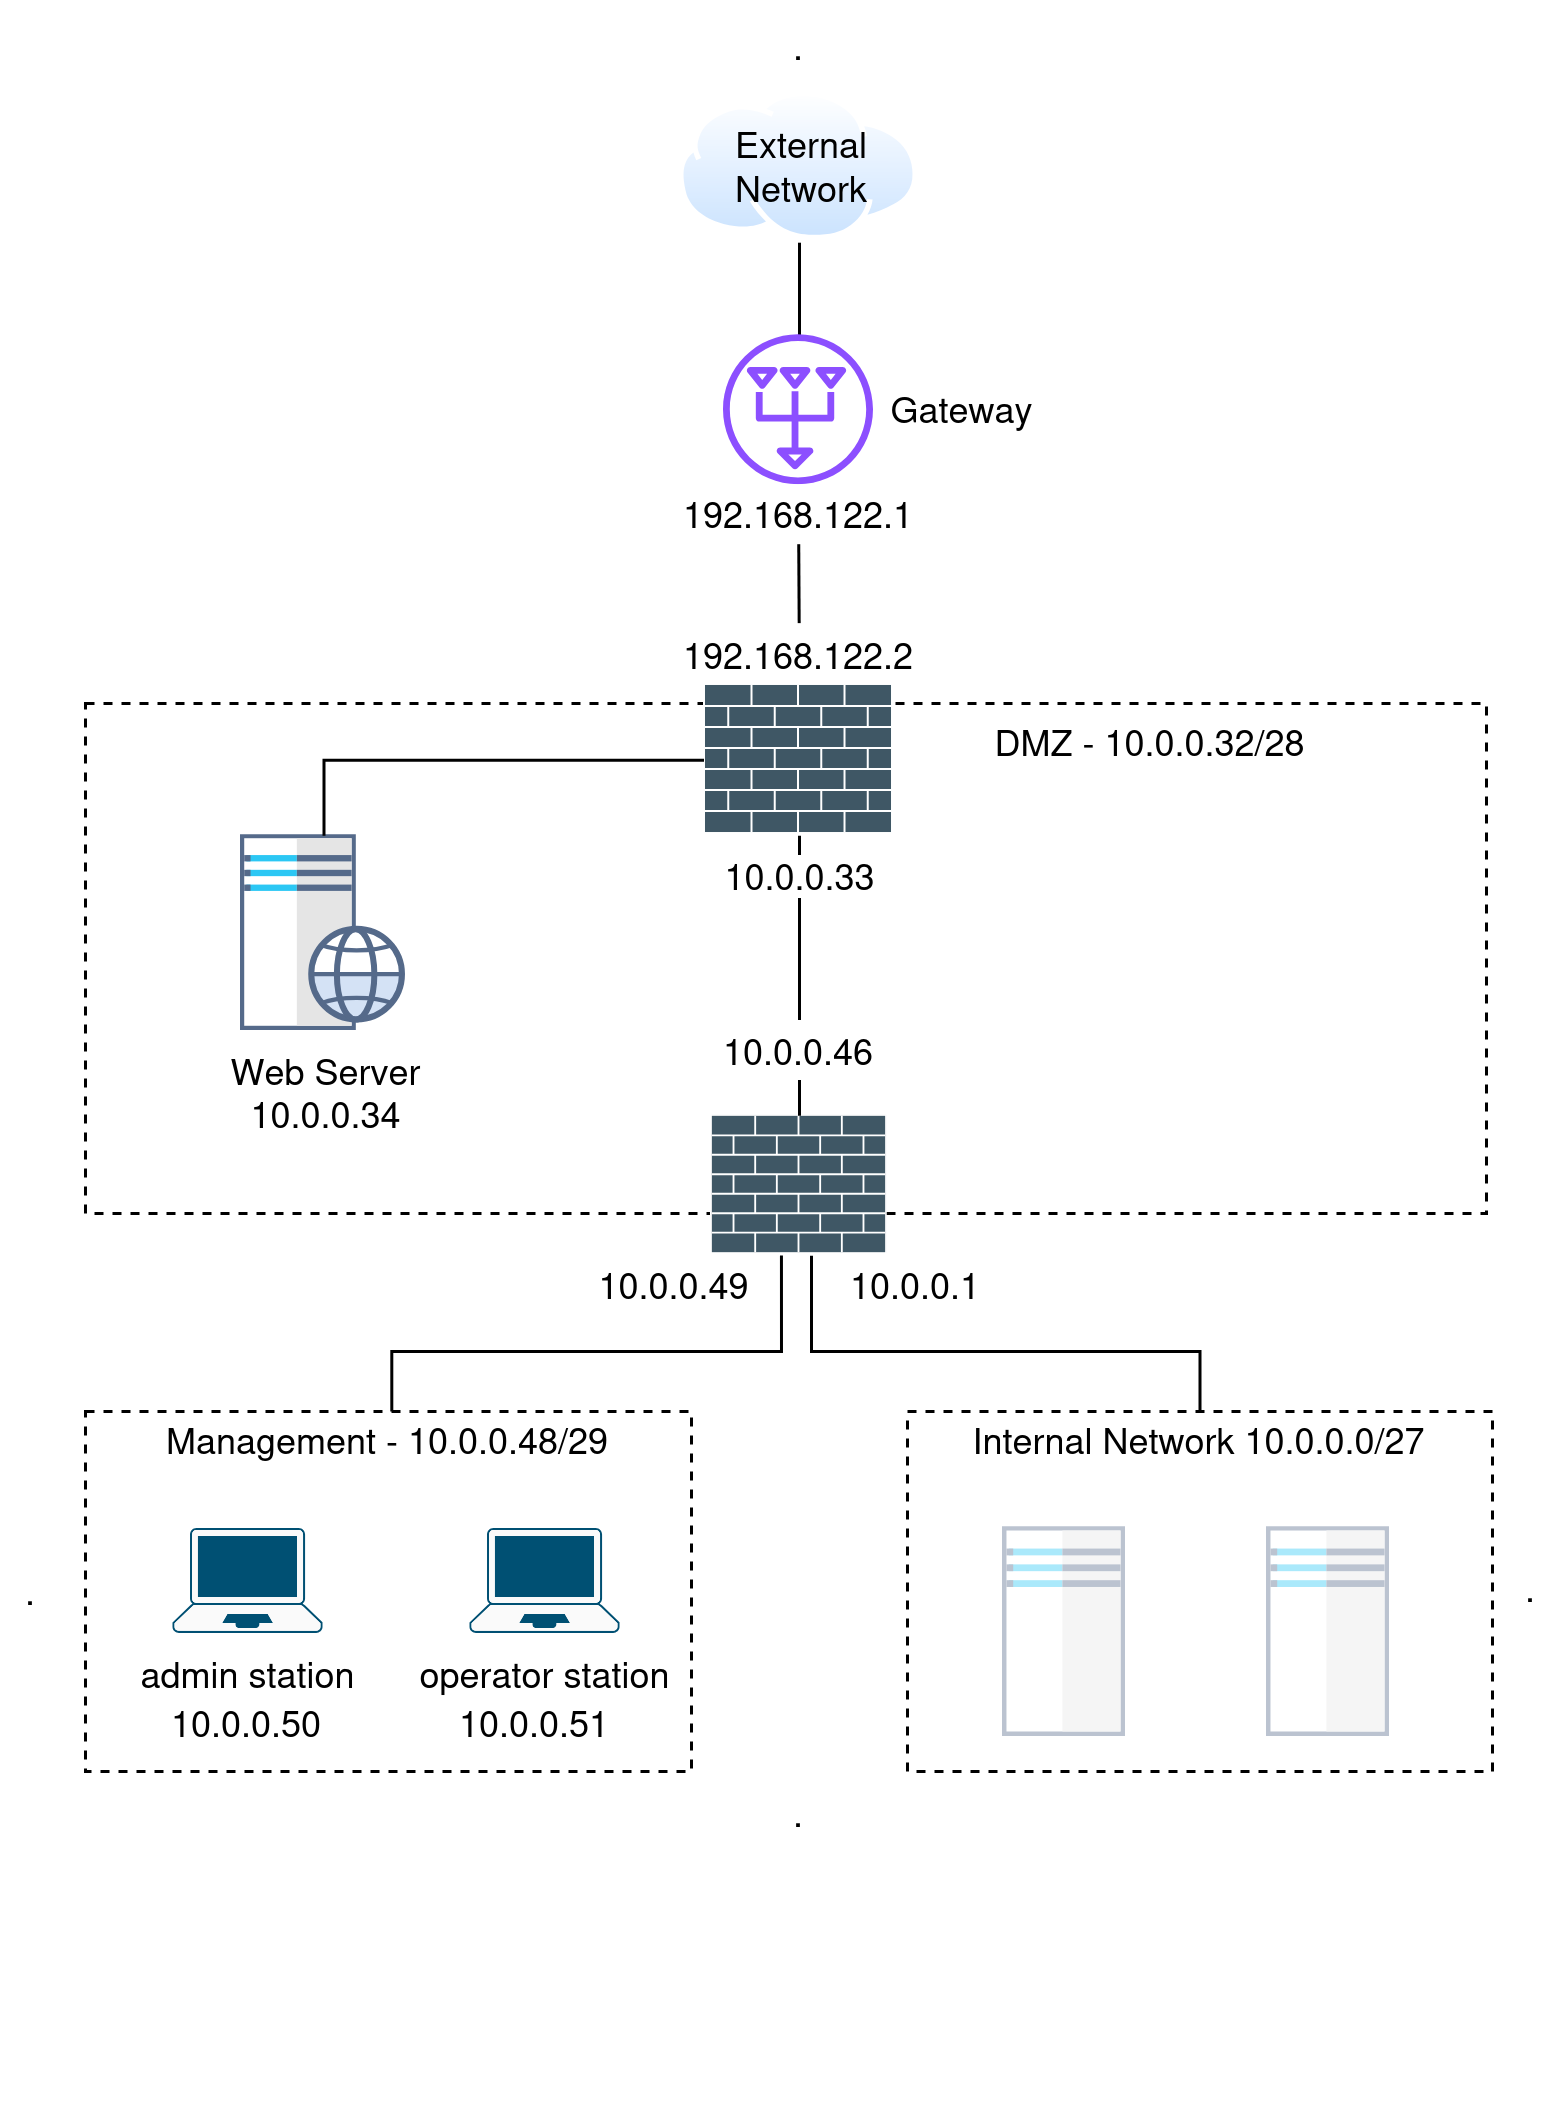
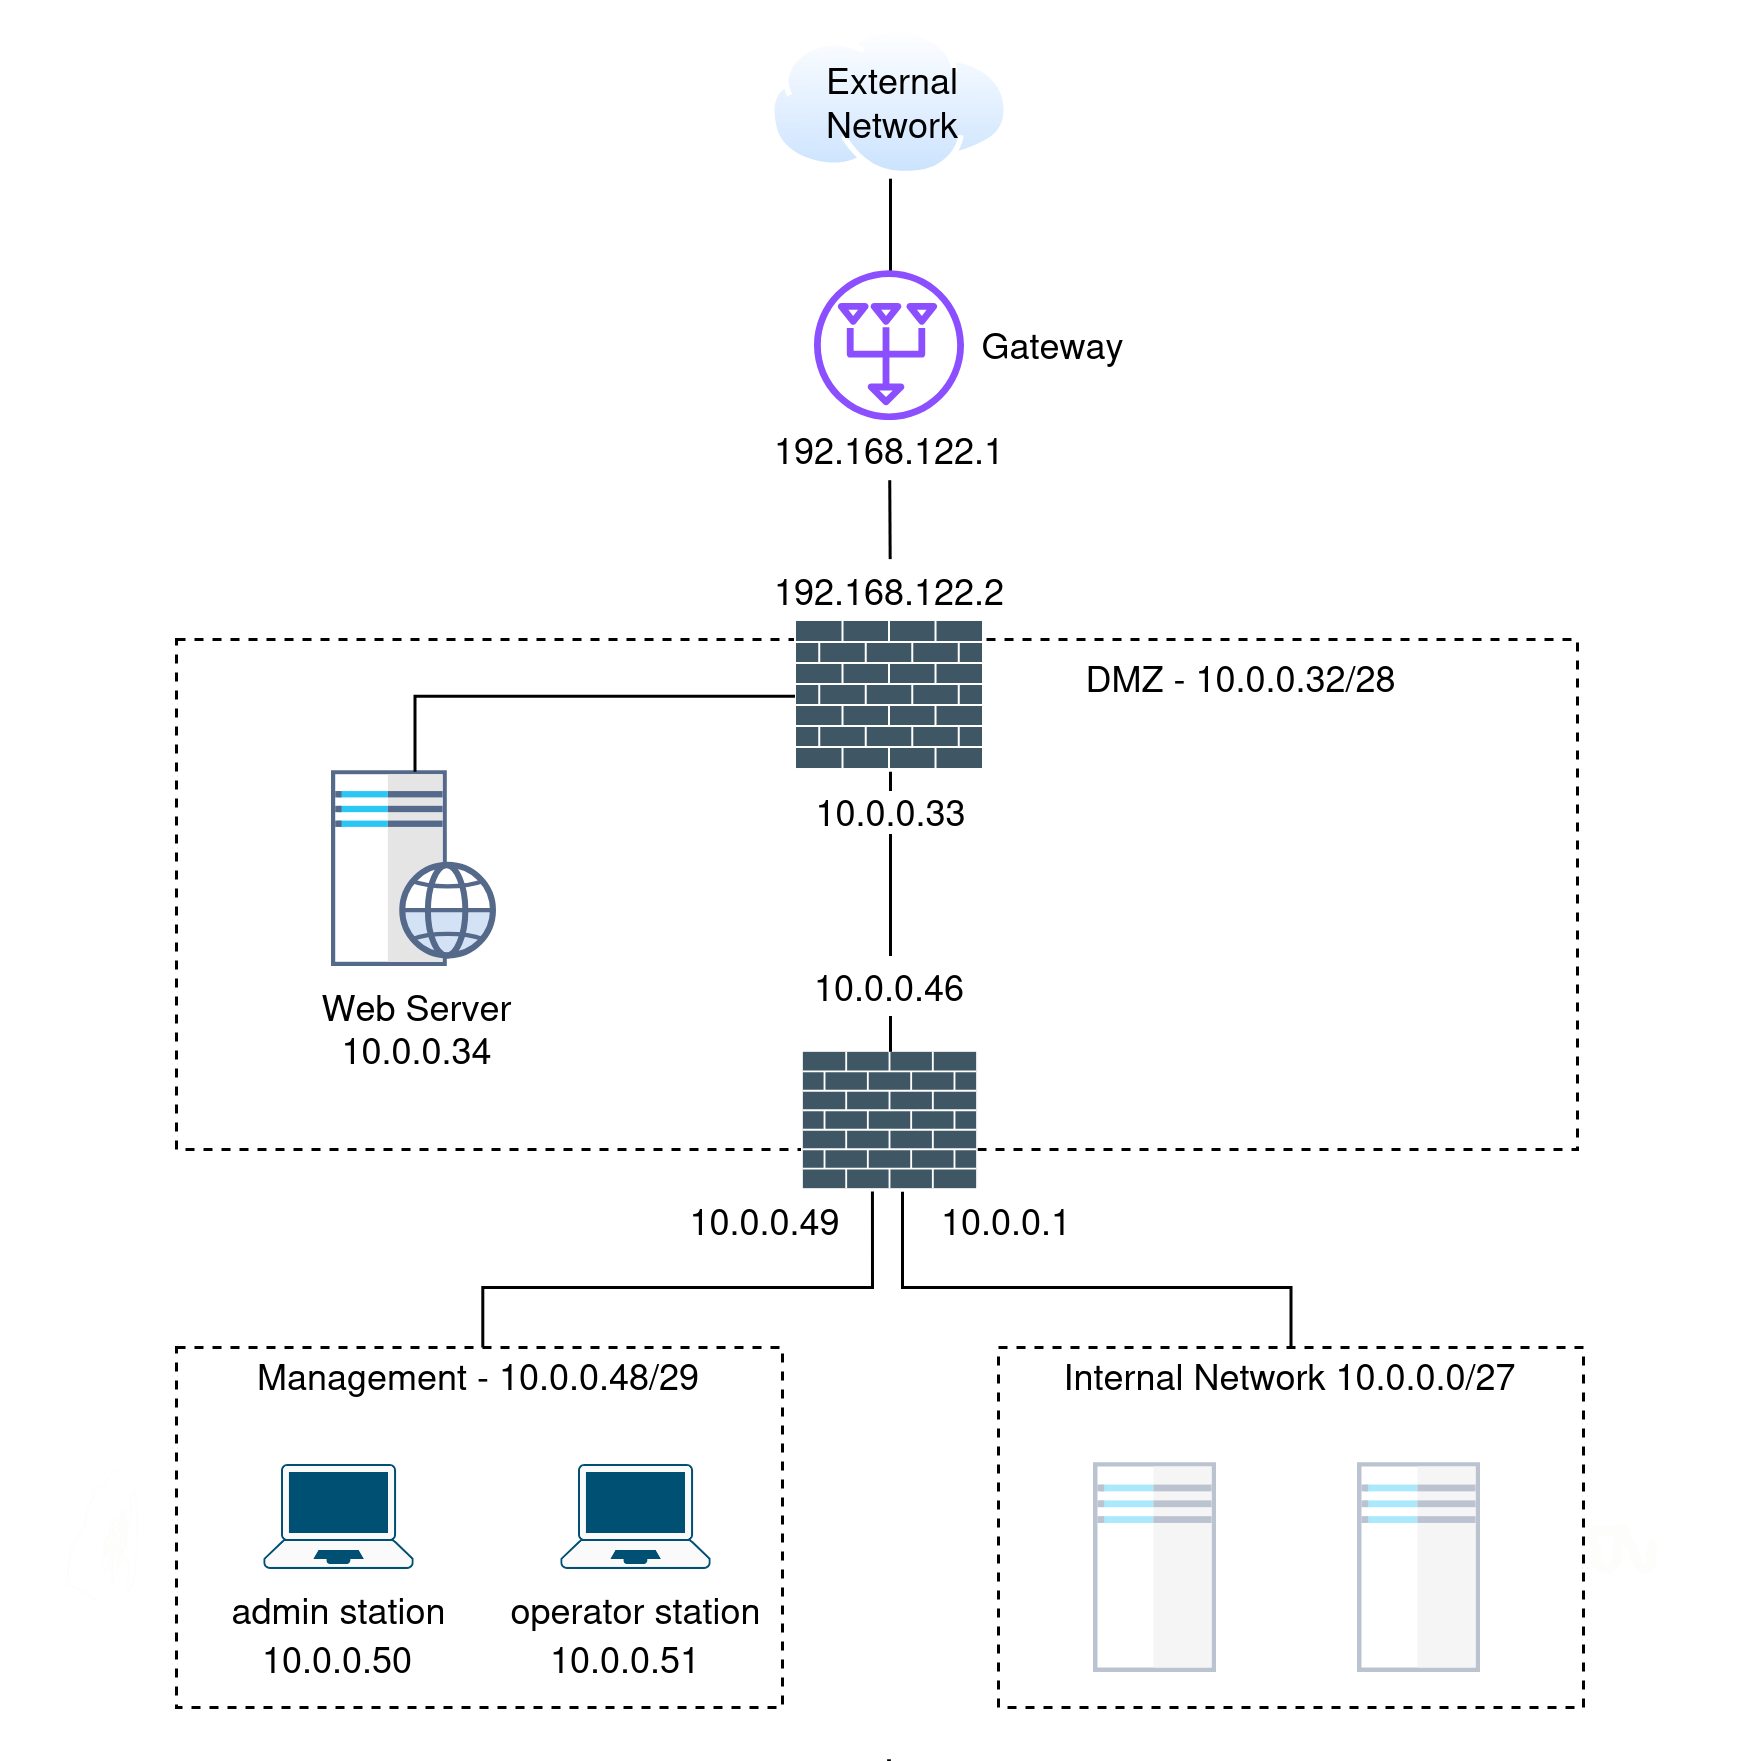
Add selected firewall evidence images

diff --git a/README.md b/README.md
@@ -347,7 +347,7 @@ After configuring both routers, bidirectional ICMP tests were performed across t
 - FW2 (`10.0.0.46`) successfully reached FW1 (`10.0.0.33`).
 - Both tests completed with `0% packet loss`.
 
-![Connectivity between firewalls](firewalls/conectivity-between-fw1-fw2.png)
+![Connectivity Between Firewalls](firewalls/connectivity-between-fw1-fw2.png)
 
 This evidence confirms Layer 3 connectivity between both firewall routers over the DMZ. It validates the addressing and basic routing configuration before packet filtering rules are introduced.
 
